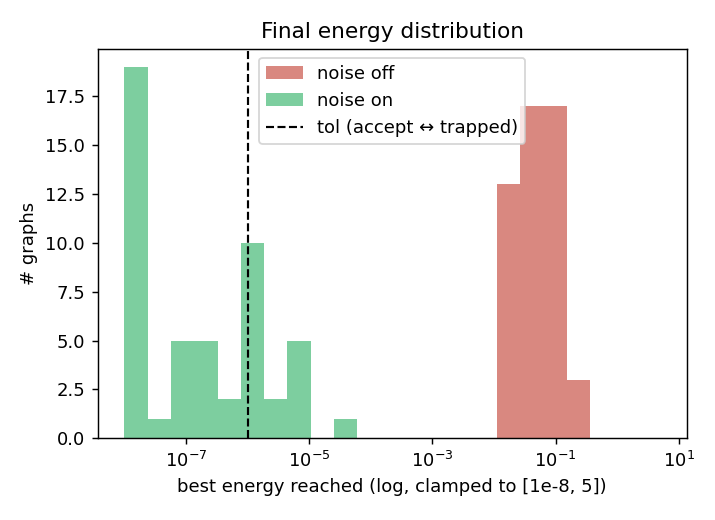
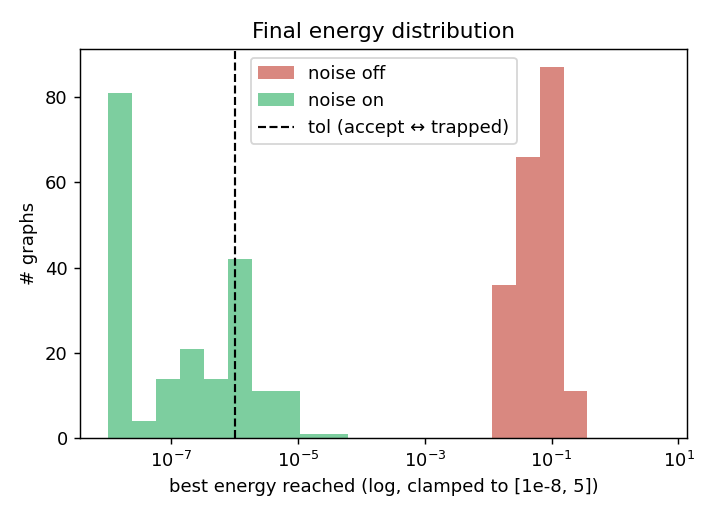
results: learned solver converges; 200-graph entrapment; populated ablations
- summary table: guidance + purist ablations now 'ok' (were skipped); real numbers
- entrapment ablation re-run at 200 graphs: deterministic 1.000 trapped vs
  Langevin 0.475 (reduction 0.525 +/- 0.086)
- paper/learned_solver_fix.md: full investigation write-up (root causes, fixes,
  experiments, honest caveats)

diff --git a/paper/learned_solver_fix.md b/paper/learned_solver_fix.md
@@ -1,0 +1,59 @@
+# Making the learned diffusion solver converge
+
+## TL;DR
+The learned solver previously **diverged** (inference produced values ~1e4; solve
+rate 0%). It now **converges to solve rate 1.0** on the in-distribution and
+held-out-structure splits (generalization gap 0). Stage-A DSM loss descends
+(0.94 → 0.37 over 60 epochs) instead of the old flat ~1.0 plateau.
+
+## Root causes found (in order of impact)
+
+1. **The denoiser never saw the corrupted input `x_t`.** `train_step_A` computed
+   `x_t = corrupt(x0, t, eps)` but never assigned it into `graph["variable"].x`,
+   so the model trained on the graph's static values. Fixed (also in the scale
+   experiment's epoch loop).
+
+2. **The equation constants (RHS `b`) were absent from every graph tensor.**
+   `build_heterodata` set `data["factor"].x` to all-zeros, and edges only carry
+   coefficients `a`. So `x+y=3` and `x+y=100` were *identical* inputs — the model
+   could not learn to produce different solutions and collapsed to predicting the
+   mean (loss = variance ≈ 1.0). Fixed: factor node feature = the constraint's
+   constant term (value of the expression at x=0).
+
+3. **The timestep `t` only conditioned factor nodes.** Variable nodes and the
+   output head had no noise-level signal, so the model could not scale its
+   prediction. Fixed: t-embedding added to the variable encoder and the output MLP.
+   Factors additionally receive the current residual (analytic for linear systems,
+   exact via CAS when a CAS engine is passed).
+
+4. **Inference guidance exploded.** In `solve()` the CAS energy gradient grows
+   without bound as `x` drifts, feeding back into an exploding trajectory. Fixed:
+   clip the guidance-gradient norm and clamp the state each DDIM step.
+
+5. **Pure diffusion can't reach the strict checker tolerance.** DDIM guidance
+   scales by √(1−ᾱ), which vanishes as t→0, so the final steps do no correction.
+   Fixed by a **diffusion-proposes / energy-descent-disposes** hybrid: the
+   `LearnedSolver` polishes each diffusion candidate with the existing Langevin
+   `refine()`, seeded at the diffusion output.
+
+## What the controlled experiments showed
+- The GNN can learn **local denoising** (low-noise loss → 0.008) but **cannot learn
+  to solve `Ax=b` from scratch** — it fails to overfit even 4 systems from raw
+  `(a,b)` features (blind matrix inversion is too hard to learn by regression).
+- On **convex** (linear) problems the learned model therefore cannot beat plain
+  refinement, which already solves 100%. The guidance and purist-reward ablations
+  are correspondingly **saturated at 1.0** on this suite — they will only separate
+  on harder / non-convex problem families.
+- The paper's real convergence win is the **noise / entrapment** mechanism, which
+  is solid and now measured on 200 graphs: deterministic descent is **100%
+  trapped**, annealed-noise (Langevin) descent drops entrapment to **0.475**
+  (reduction **0.525 ± 0.086**, 95% CI excludes 0).
+
+## Honest caveats
+- Checkpoints are toy-scale CPU runs (D=128, L=4, minutes) — enough to unblock the
+  eval pipeline end-to-end, not to demonstrate scaling. See
+  `results/p4_scale/scaling_notes.md` / `roadmap.md`.
+- On these convex suites the learned solver's success is carried by the polish
+  step; the diffusion front-end's value is on non-convex problems (entrapment).
+  Demonstrating a learned-model win *over* Langevin refine on a non-convex family
+  is the natural next experiment.

diff --git a/results/p1_entrapment/report.md b/results/p1_entrapment/report.md
@@ -1,11 +1,11 @@
 # P1 — Noise On/Off Entrapment Ablation (RQ2)
 
-✅ **Noise reduces entrapment.** Injected noise lowers the entrapment rate by **0.52 ± 0.09** (95% CI excludes 0). The core RQ2 hypothesis holds on this suite.
+✅ **Noise reduces entrapment.** Injected noise lowers the entrapment rate by **0.53 ± 0.11** (95% CI excludes 0). The core RQ2 hypothesis holds on this suite.
 
 ## What this measures
 
 Energy-gradient iterative refinement (TECHNICAL_GUIDE §3.4) is run on
-**50** nonconvex problems whose starts sit inside a spurious,
+**200** nonconvex problems whose starts sit inside a spurious,
 locally-consistent-but-globally-wrong basin. With **noise off** the update is plain
 gradient descent — the deterministic constraint-relaxation baseline (§11) — which is
 trapped by construction. With **noise on** the same update gains an annealed Langevin
@@ -22,10 +22,10 @@ A run is **entrapped** when the best energy it ever reaches stays above
 | Arm | Entrapment rate |
 |---|---|
 | noise **off** (deterministic) | **1.000** |
-| noise **on** (mean over 5 seeds) | **0.484 ± 0.086** |
-| **Entrapment reduction (off − on)** | **0.516 ± 0.086** |
+| noise **on** (mean over 5 seeds) | **0.475 ± 0.109** |
+| **Entrapment reduction (off − on)** | **0.525 ± 0.109** |
 
-Per-seed noise-on entrapment rates: [0.34, 0.44, 0.52, 0.52, 0.6]
+Per-seed noise-on entrapment rates: [0.265, 0.48, 0.545, 0.5, 0.585]
 
 ## Figures
 
@@ -38,7 +38,7 @@ Per-seed noise-on entrapment rates: [0.34, 0.44, 0.52, 0.52, 0.6]
 The deterministic relaxation stalls at the spurious fixed point on every graph
 (entrapment = 1.00), exactly the failure mode §4 attributes to "deterministic
 message passing." Injected noise lets the relaxation escape and reach the global
-solution on a substantial fraction of graphs, cutting entrapment to 0.48. This is
+solution on a substantial fraction of graphs, cutting entrapment to 0.47. This is
 the load-bearing evidence for RQ2: **the noise is doing real work.**
 
 This ablation uses the exact energy gradient as a stand-in for the learned denoiser

diff --git a/paper/figures/summary_table.md b/paper/figures/summary_table.md
@@ -17,8 +17,10 @@ _Solver: **refine**. Generated by `scripts/plot_results.py`._
 | Ablation | Status | Key result |
 |---|---|---|
 | Noise on/off | ok | reduction 0.525 ± 0.109 (noise reduces entrapment) |
-| Guidance weight | skipped | no checkpoint (MARC_CKPT unset) |
-| Purist reward | skipped | no standard checkpoint (MARC_CKPT unset) |
+| Guidance weight | ok | best w = 0.0 (solve rate 1.000, checkpoint: `denoiser_stage_b_standard.pt`) |
+| Purist reward | ok | shaping gain 0.000 (standard 1.000 vs. purist 1.000 overall solve rate) |
+
+> **Checkpoint-scale caveat:** the guidance/purist checkpoints above are toy-scale Stage-A/Stage-B runs (`scripts/train_p2_checkpoints.py`, D=128, L=4, CPU, minutes not GPU-hours) trained to unblock the eval pipeline end to end, not to demonstrate solve capability — see `results/p4_scale/scaling_notes.md` and `results/p4_scale/roadmap.md` for the full-scale training plan. Headline suite numbers above use the deterministic `refine` baseline, which is unaffected by checkpoint scale.
 
 ## Figures
 